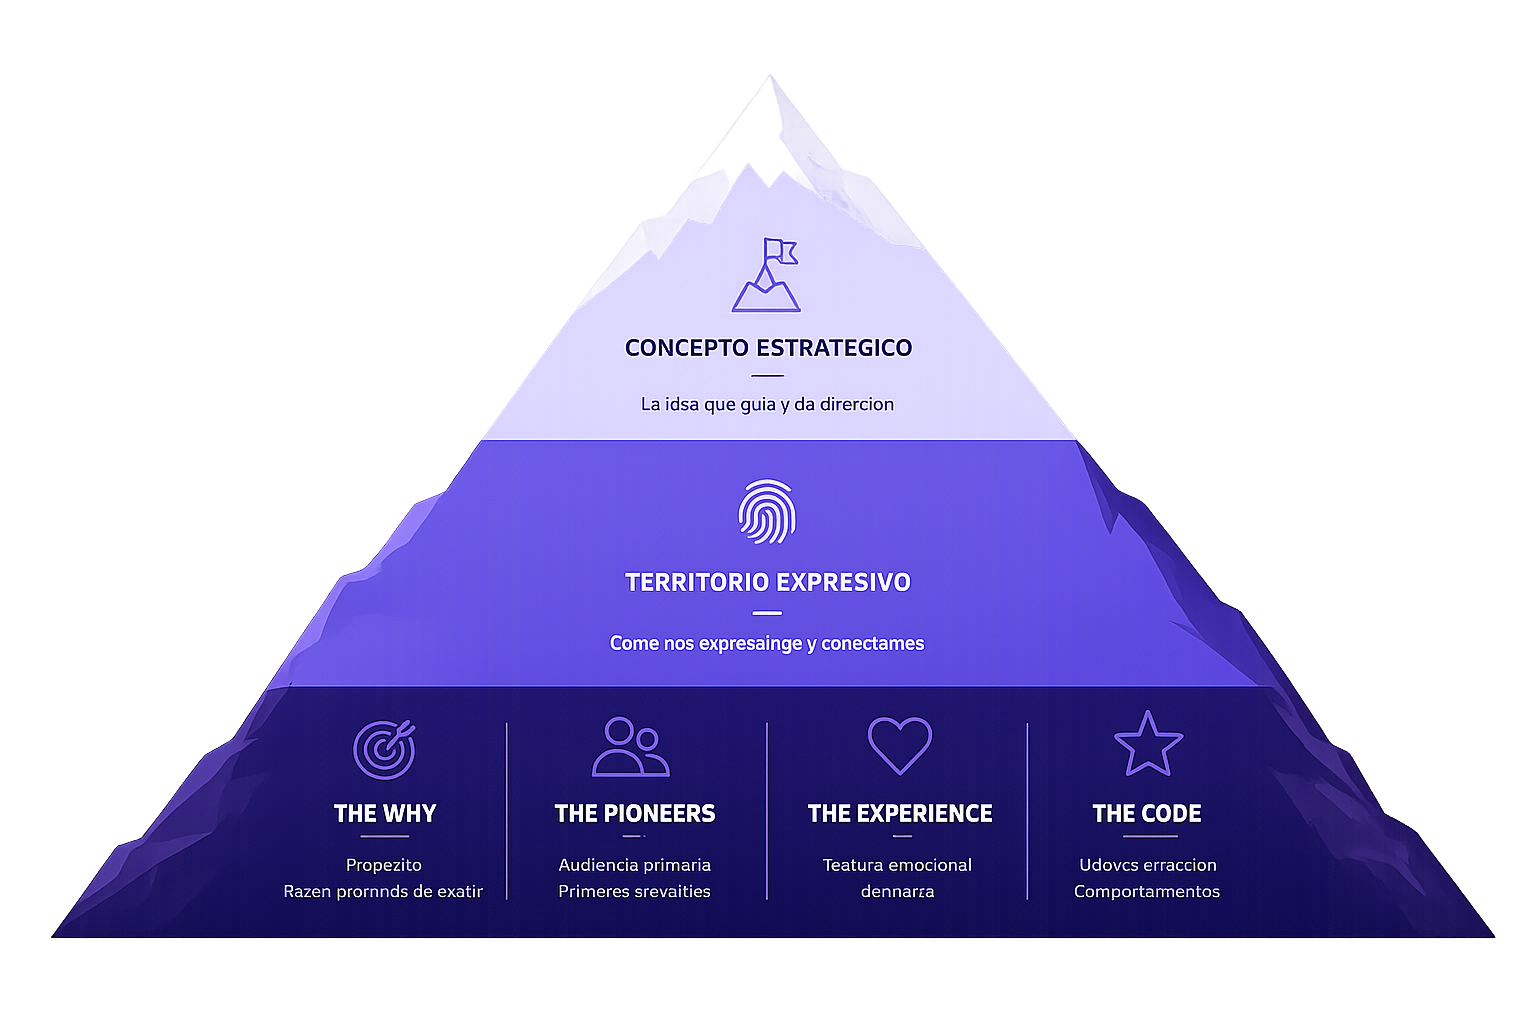
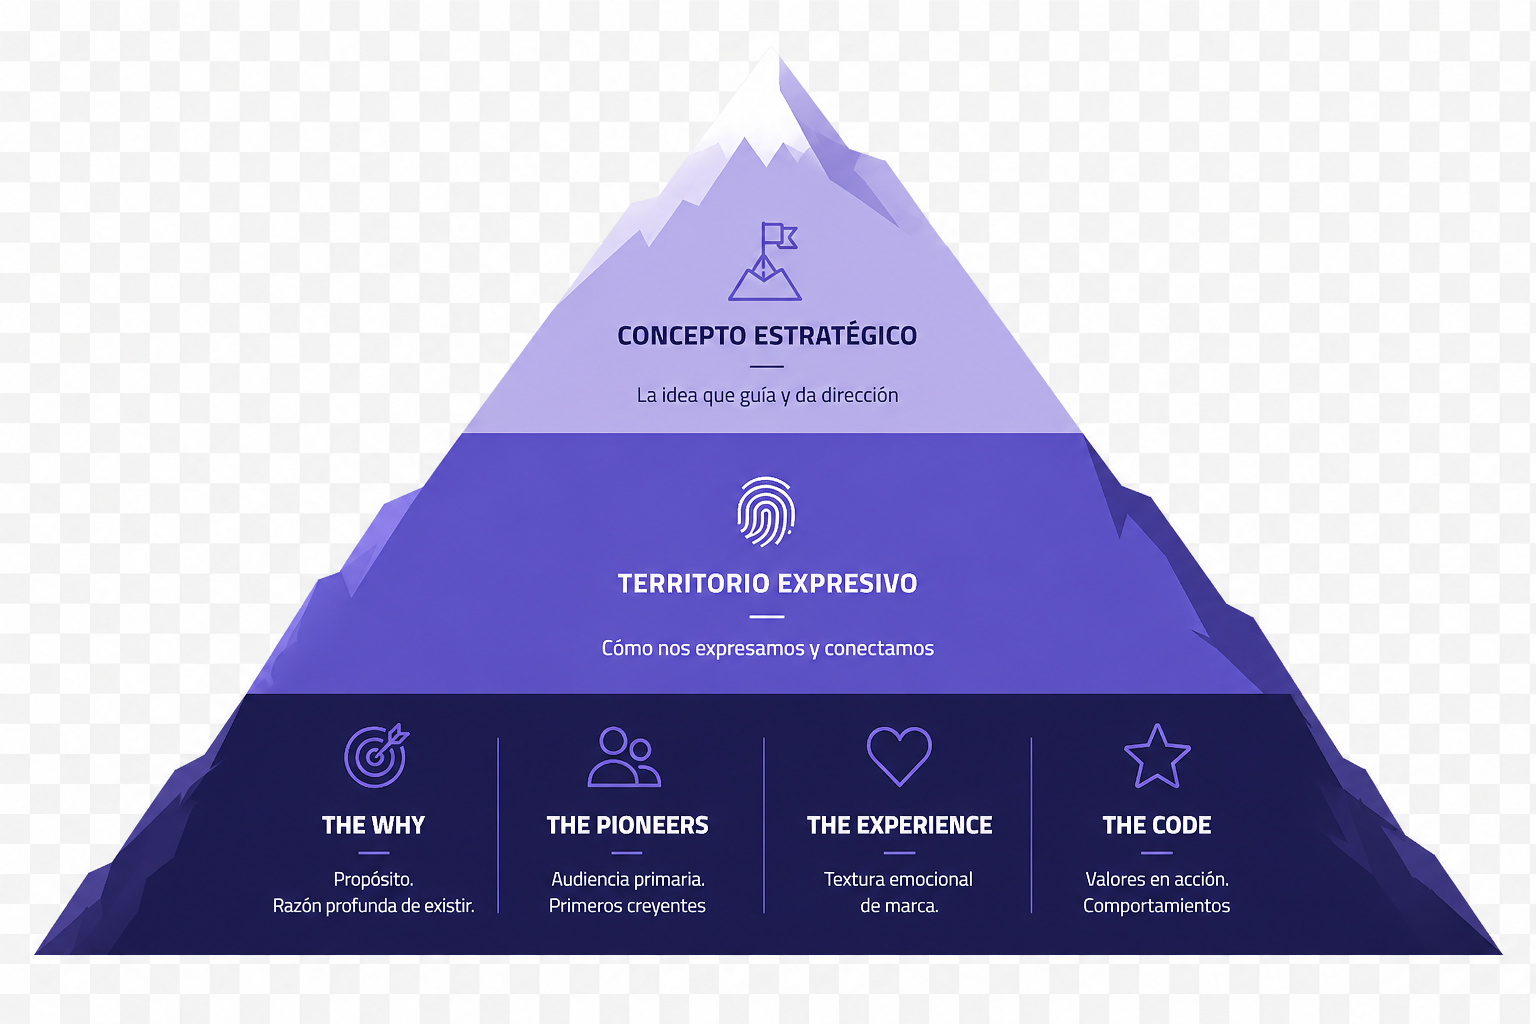
Actualizar montaña.PNG (versión sin erratas) + subir imagen 85px

diff --git a/index.html b/index.html
@@ -1158,7 +1158,7 @@ iframe.cr-video{width:100%;aspect-ratio:16/9;height:auto;max-height:none;border:
         </div>
         <div class="rw" style="margin-bottom:14px"><div class="ri d1 s7-hl">FASE 2: <em>THE ASCENT</em></div></div>
         <!-- Mountain image -->
-        <div class="af d2" style="flex:1;display:flex;align-items:flex-start;justify-content:center;min-height:0;overflow:visible;padding-bottom:56px">
+        <div class="af d2" style="flex:1;display:flex;align-items:flex-start;justify-content:center;min-height:0;overflow:visible;padding-bottom:56px;margin-top:-85px">
           <img src="assets/assets%20/monta%C3%B1a.PNG" alt="The Ascent — Metodología THE PEAK" style="max-height:100%;max-width:82%;object-fit:contain;display:block">
         </div>
       </div>
